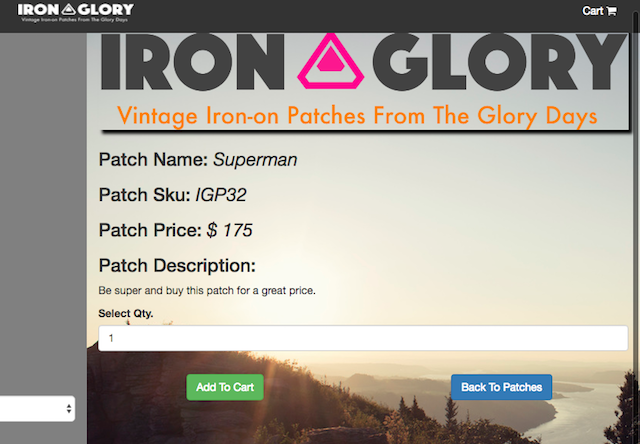
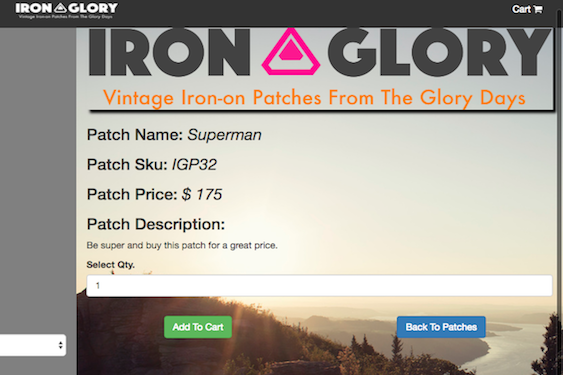
Adjusts picture size for all to match

diff --git a/index.html b/index.html
@@ -110,7 +110,7 @@
         <li class=" col-xs-6 col-sm-6 col-md-6 col-lg-6">
           <div class="lightCon"> <span class="hoverBox"> <span class="smallIcon"> <a href= "https://salty-beach-17198.herokuapp.com/">Iron Glory Patch Store</a></span></span><img src="img/Iron Glory screen shot.png" alt=" " > </div>
         </li>
-        <li class="abc col-xs-6 col-sm-6 col-md-6 col-lg-6">
+        <li class="col-xs-6 col-sm-6 col-md-6 col-lg-6">
           <div class="lightCon">
             <a href= "https://github.com/llancon">
             <span class="hoverBox"  >
